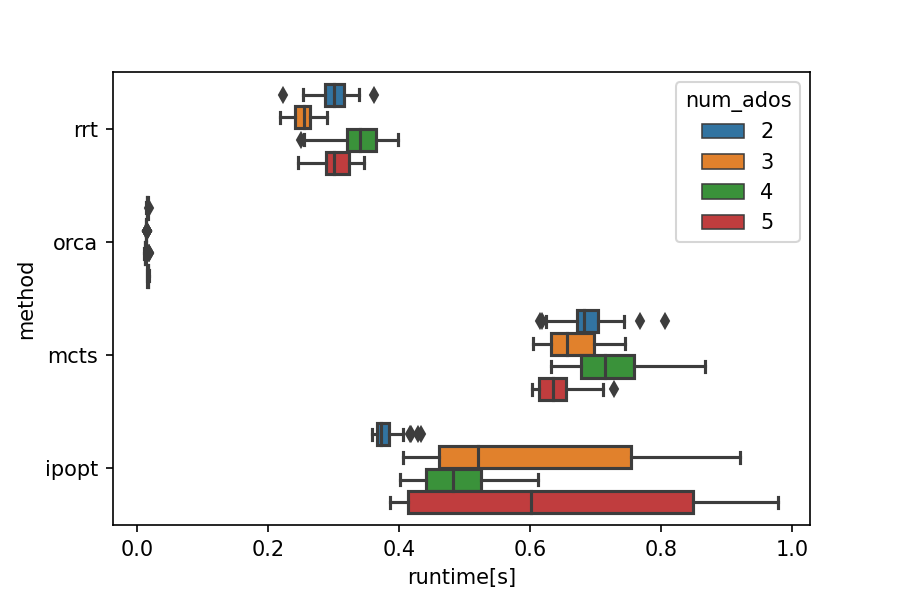
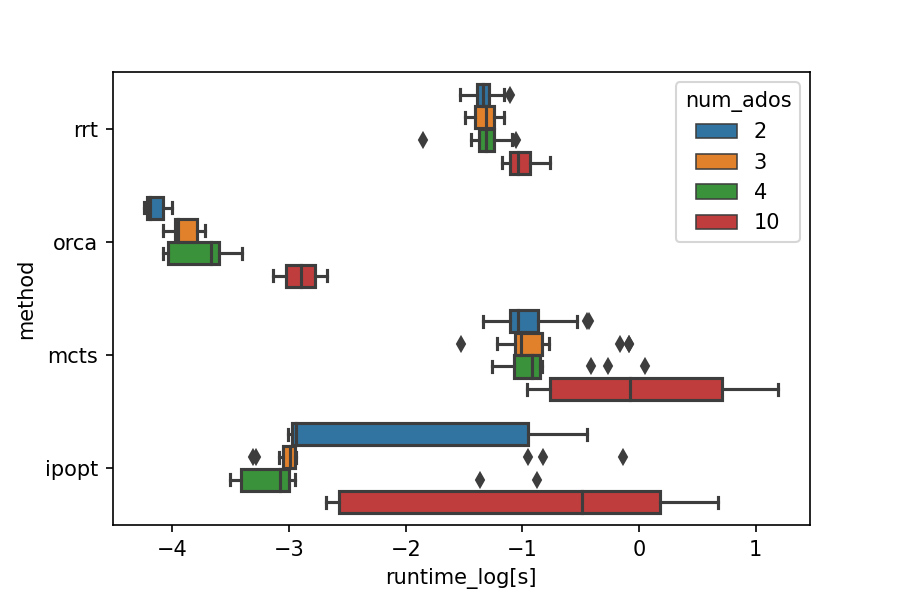
report update

diff --git a/report/exp_integration.tex b/report/exp_integration.tex
@@ -1,6 +1,6 @@
 \section{Integration Experiments}
 \label{text:experiments/integration}
-In the following, the performance of the overall approach is evaluated. For comparison, several baselines have been re-implemented, that are frequently used in the field of crowd navigation: \ac{ORCA} \cite{vandenBerg2011}, \ac{RRT}$\star$ \cite{Karaman2011} and \ac{MCTS}. These baselines have been chosen, as they cover a broad field of existing trajectory planning methodologies, such as sampling-based, optimization-based or tree-search-based methods. \footnote{Section \ref{text:related/crowd_navigation} The experiments have been conducted as described in Section \ref{text:experiments/setup}, using \ac{SGAN} \cite{Gupta2018} as an independent simulation environment and averaged several runs in a Monte-Carlo manner.
+In the following, the performance of the overall approach is evaluated. For comparison, several baselines have been re-implemented, that are frequently used in the field of crowd navigation: \ac{ORCA} \cite{vandenBerg2011}, \ac{RRT}$\star$ \cite{Karaman2011} and \ac{MCTS}. These baselines have been chosen, as they cover a broad field of existing trajectory planning methodologies, such as sampling-based, optimization-based or tree-search-based methods. \footnote{Section \ref{text:related/crowd_navigation} introduced the use of deep learning-based approaches in the field of crowd-navigation. Therefore, a state-of-the-art approach for socially-aware navigation using deep reinforcement learning, by Chen et alt. \cite{Chen2017}, should have been used as well. Unfortunately, it is neither open-source nor did the author reply to several of my requests.} The experiments have been conducted as described in Section \ref{text:experiments/setup}, using \ac{SGAN} \cite{Gupta2018} as an independent simulation environment and averaged several runs in a Monte-Carlo manner.
 
 \subsection{Effect of Interactive Objective}
 Figure \ref{img:show_case} illustrates the qualitative difference between the proposed approach and other planning approaches. Note that meanwhile, both algorithms can maintain some safety distance to the pedestrian. However, integrating the pedestrian prediction in the core of the optimization allows the solver to anticipate each pedestrian's future actions. While the path optimized by \ac{RRT}$\star$ (comp. Figure \ref{img:show_case}, right) cuts into the path of the green-colored pedestrian, the interactive-aware optimization chooses to stay behind the pedestrian, which is reasonable travel-time efficient but introduces a lot fewer disturbances on the surrounding pedestrians. 
@@ -10,23 +10,55 @@ Figure \ref{img:show_case} illustrates the qualitative difference between the pr
 \includegraphics[width=0.45\textwidth]{images/show_case_ipopt.png}
 \includegraphics[width=0.45\textwidth]{images/show_case_rrt.png}
 \end{center}
-\caption{Direct comparison of generated trajectories by our approach (left) and \ac{RRT}$\star$ \cite{Karaman2011} (right)}
+\caption{Exemplary comparison of generated trajectories by our approach (left) and \ac{RRT}$\star$ \cite{Karaman2011} (right)}
 \label{img:show_case}
 \end{figure}
 
 \subsection{Baseline Performance}
-The previously described qualitative benefits of the proposed approach can be underlined by quantitative results. The following experiments compare the quantitative results of the several planning algorithms in the presence of 2 to 5 pedestrians in the scene and randomly created. 
+The previously described qualitative benefits of the proposed approach can be underlined by quantitative results. The following experiments compare the quantitative results of the several planning algorithms in the presence of 2 to 10 pedestrians in the scene and randomly created. 
+
+\begin{table}[!ht]
+\begin{center}
+\begin{tabular}{c|c|c|c|c|c|c|c}
+\bf Method & \bf MPE & \bf RTD & \bf RCE & \bf ETT & \bf TGD & \bf MSD & \bf Mean Runtime [s] \\
+\hline
+\ac{MCTS} & 7.03 & 0.77 & 0.76 & 0.69 & 0.511 & 4.64 & 0.67 \\
+\hline
+\ac{ORCA} & 6.86 & 0.70 & 0.97 & 0.0 & 0.35 & 3.68 & 0.028 \\
+\hline
+\ac{RRT}$\star$ & 7.13 & 0.53 & 1.18 & 0.0 & 0.68 & 3.38 & 0.29 \\
+\hline
+\rowcolor{our_color}
+\project & 6.78 & 0.93 & 0.61 & 0.38 & 0.30 & 4.51 & 0.28
+\end{tabular}
+\end{center}
+\caption{Quantitative comparison of approach to several baseline methods.}
+\label{table:baselines}
+\end{table}
+
+As shown in Table \ref{table:baselines}, the proposed algorithm outperforms the baseline methods in nearly all metrics. Although \ac{ORCA} performs surprisingly well, causing the second lowest mean pedestrian effort \ac{MPE}, behind \project, it fails keep the same safety distance as the solution trajectories derived using the proposed formulation. In fact, \project manages to find a solution that trade-offs efficiency with safety and intervention regarding the pedestrians better than all of the other approaches.  
 
 \subsection{Effect of number of Pedestrians}
-Figure \ref{img:runtime_num_pedestrian} illustrates the average algorithm's runtime for one trajectory optimization, depending on the number of pedestrians. While the proposed approach ("ipopt") runs with about 2 Hz, the runtime is notably dependent only marginally on the number of pedestrians in the scene. This can be explained by the widespread usage of batching within the algorithm, including the prediction model, and the use of attention filters, which keep the number of considered pedestrians during optimization approximately constant.
+Figure \ref{img:runtime_num_pedestrian} illustrates the average algorithm's runtime for one trajectory optimization, depending on the number of pedestrians. While the proposed approach ("ipopt") runs with about 2-3 Hz in case of many pedestrians, the runtime is notably sub-linearly depends on the number of pedestrians in the scene. This can be explained by the widespread usage of batching within the algorithm, including the prediction model, and the use of attention filters, which keep the number of considered pedestrians during optimization approximately constant.
 
 \begin{figure}[!ht]
 \begin{center}
 \includegraphics[width=\imgwidth]{images/runtime_peds.png}
 \end{center}
-\caption{Impact of number of pedestrians (ados) on algorithm runtime [s].}
+\caption{Impact of number of pedestrians (ados) on algorithm runtime [s] (in logarithmic scale).}
 \label{img:runtime_num_pedestrian}
 \end{figure}
 
 \subsection{Effect of Prediction Model}
+The internal structure of the prediction model largely impacts, how a certain robot action is evaluated in terms of its interactive cost. Consequently, the optimized trajectories differ. However, it turns out that the qualitative properties of the solution trajectory are widely independent from the choice of prediction model, at least when the same simulation environment is being used. Figure \ref{img:effect_pred} illustrates this qualitative invariance, by comparing the solution trajectories of an optimization based on the Trajectron \cite{Ivanovic2018} (left) and the Potential Field model (right). As so, solution trajectory being derived using the latter environment tend to be single-agent focused. As described in Section \ref{text:exp_particles}, the Potential Field model neglects inter-pedestrian interactions and the robot does not impact a pedestrian's movement, if it is not in its field of view. Consequently, trajectories that are derived based on this environment, usually choose to follow behind the closest pedestrian. In contrast, the Trajectron models the effect each pedestrian has on all other agents in the scene. Thus, the robot chooses to stay behind the closest pedestrian, but in maximal distance to all other pedestrian. This has to pre-dominant reasons: Firstly, the pedestrians behavior is impacted by the robot, just due to its presence, and not limited by the pedestrian's field of view. And more importantly, secondly, intermediate effects are taken into account. Thus, when the robot has an impact on one pedestrian $k$, it might effect the others as well, since they might be effected implicitly by the change of action of $k$. 
+\newline
+However, although both solution trajectories in Figure \ref{img:effect_pred} differ in shape, they are qualitatively equal. Both robots choose to follow behind the closest pedestrian. This behavior can be observed over a wide range of different scenarios.
 
+\begin{figure}[!ht]
+\begin{center}
+\includegraphics[width=0.45\textwidth]{images/show_case_ipopt.png}
+\includegraphics[width=0.45\textwidth]{images/impact_env_trajectron.png}
+\end{center}
+\caption{Exemplary comparison of generated trajectories by based on Potential Field model (left) and Trajectron \cite{Ivanovic2018} (right)}
+\label{img:effect_pred}
+\end{figure}

diff --git a/report/exp_unit.tex b/report/exp_unit.tex
@@ -53,7 +53,7 @@ diff\_acc & 0.21 & 0.98 & 0.55 & 0.0 & 0.27 & 1.24 \\
 without & 0.31 & 1.0 & 0.27 & 0.0 & 0.23 & 1.08 \\ 
 \hline
 \rowcolor{our_color}
-projection & 0.01 & 0.92 & 0.79 & 0.8 & 0.39 & 1.44 
+projection & 0.18 & 0.92 & 0.79 & 0.8 & 0.39 & 1.44 
 \end{tabular}
 \end{center}
 \label{table:interactive_objective}
@@ -95,8 +95,8 @@ Figure \ref{img:hj_approx_bar} shows the logarithmic approximation error for sev
 The warm-starting method used in the underlying work simplifies the full trajectory optimization problem to a convex and efficiently computable sub-problem. This process has been described in Section \ref{text:approach/runtime/warm_starting}. This simplified formulation merely takes into account the goal objective as well as a physical constraint imposed by the robot, while neglecting any interaction between robot and pedestrian in the scene. It this way, not only pedestrian-target objectives are ignored, but also constraints enforcing a safe interaction. Despite being efficient to solve, it might return a solution estimate far from the real solution. For example, in the case of a densely crowded area, it might return a solution trajectory, passing very close to other pedestrians, which surely violates the safety constraints of the full formulation. Consequently, the runtime would not be reduced much, if at all. 
 \newline
 As previously pointed out, there is no simple way of warm-starting interior-point-based methods using preceding solutions. This difficulty motivates finding other warm-starting approaches designed explicitly for crowd-navigation. In the following several other concepts for warm-starting, the underlying optimization problem is introduced and baselined against the used method. The used method, which is solving a simplified, robot-focussed optimization problem, is thereby referred to as \ac{GFW}.
-\paragraph{
-\ac{SCW}} 
+
+\paragraph{\ac{SCW}} 
 SCW follows a similar idea as \ac{GFW}, which is using a simplified formulation of the full optimization problem (Problem \ref{problem:general}) as a wart-start. \ac{GFW}s formulation is thereby extended by the safety constraint $g_{HJR}(\cdot)$ to guarantee that the warm-starting solution is feasible with respect to the system's safety constraint. $g_{HJR}(\cdot)$ is by design independent from pedestrian predictions as well as, for the assumed agent dynamics, widely linear. As a result, \ac{SCW} not only accounts for interactions and feasibility of the warm-started solution trajectory in the full problem but also is comparably efficient to solve.
 
 \paragraph{\ac{PCBW}}
@@ -147,26 +147,7 @@ It is straightforward to see that the computational complexity of evaluating the
 Thus, as an example, it is effortful to compute the gradient of the interactive objective with respect to the robot's trajectory for Trajectron \cite{Ivanovic2018}, but computationally light-weight to do so for the Social Forces environment \cite{Helbing1995}. Following this idea, the \ac{SPMW} method warm-starts the optimization by solving the same (full) optimization problem and using a less complicated environment. The Potential Field prediction model, as described in Section \ref{text:exp_particles}, has been developed for warm-starting. It is worth noting that \ac{SPMW} enables us to improve the efficiency of the optimization and take advantage of prior knowledge. Therefore, the Potential Field model has been designed so that the pedestrian is only affected by the robot when it is close to the pedestrian and in front of it. Consequently, the optimization is driven to a solution in which the robot moves behind or in the distance of each pedestrian.
 
 \paragraph{Evaluation}
-Table \ref{table:warm_start} quantitatively compares the exhibited warm-starting methods. 
-
-\begin{table}[!ht]
-\begin{center}
-\begin{tabular}{c|c|c|c|c|c|c}
-\bf Warm-Starting Method & \bf MPE & \bf RTD & \bf RCE & \bf ETT & \bf TGD & \bf MSD \\
-\hline
-SCW & 0.33 & 0.99 & 0.32 & 0.0 & 0.24 & 0.94 \\
-\hline
-PCBW & 0.29 & 0.98 & 0.51 & 0.0 & 0.26 & 1.16 \\
-\hline
-SMW & 0.21 & 0.98 & 0.55 & 0.0 & 0.27 & 1.24 \\ 
-\hline
-\rowcolor{our_color}
-GFW & 0.01 & 0.92 & 0.79 & 0.8 & 0.39 & 1.44 
-\end{tabular}
-\end{center}
-\caption{Quantitative comparison of several warm-starting methods by evaluating the performance of the underlying trajectory optimization.}
-\label{table:warm_start}
-\end{table}
+Evaluating the performance of the exhibited warm-starting methodologies generally is hard, as for each warm-starting method a set of scenarios can be constructed, in which the resulting warm-started trajectory is very close to the optimal trajectory. As an example \ac{GFW} works well for sparse scenarios, with few pedestrians, while \ac{SCW} performs well, when the robot starts close to a pedestrian. However, in most cases the warm-starting methods decrease the average optimization runtime by $5-10 \%$, while not qualitatively affecting the shape of the solution trajectory. Empirically, \ac{SCW} seems to perform best. Automatically deciding the optimal warm-starting method for a given scenario, as e.g., by leveraging learning-based methods as in \cite{Banerjee2020}, is left for future work.
 
 \subsection{Attention Methods}
 Section \ref{text:approach/runtime/filtering} has introduced the concept of attention for filtering the significant pedestrians for evaluating the interactive objective and cutting computational runtime. Next to the purposed euclidean-distance-based attention module, there are several other methodologies for this purpose, out of which two more sophisticated options will be presented in the following:

diff --git a/report/exp_environments.tex b/report/exp_environments.tex
@@ -41,4 +41,4 @@ A significant disadvantage of Algorithm \ref{alg:particle_simulation} is that on
  
 \paragraph{Social Forces Model.} The Social Forces model is an ontological approach for pedestrian prediction based on modeling human and interaction dynamics as first-order principles. Although Social Forces model the pedestrian with double integrator dynamics, as previously pointed out, this assumption can be easily relaxed due to the highly dynamic nature of the pedestrian with a much larger update rate than the robot's trajectory optimization algorithm.  While the design is originally not taking into account a robot with previously known trajectories, it can be easily integrated by introducing it as an agent with a known state that applies repulsive forces to each pedestrian, as described in Equation \ref{eq:social_forces}. While the original Social Forces characterize the impact of objects and pedestrian groups, these effects are ignored within this work for the sake of simplification and due to the specific problem formulation (e.g., free-plane environment). As the model was extensively described in Chapter \ref{text:related}, it is only mentioned here for completeness. 
 
-\paragraph{Potential Field Model.} The Potential Field model simplifies the Social Forces model developed within project \project, mainly due to its improved tractability. While the repulsive forces each pedestrian as well as the robot exerts on a pedestrian depends on the relative state informed gradient of a potential field, which might be hard to understand, the potential forces model uses a distance only approach, to evaluate the repulsive force between two agents. To avoid overly conservative or unrealistic trajectory predictions, the robot merely exerts a force on the pedestrian if it within a visible cone in front of the pedestrian. If no forces are applied on a pedestrian (or remain under defined threshold), constant, un-accelerated motion is assumed.
+\paragraph{Potential Field Model.} The Potential Field model simplifies the Social Forces model developed within project \project, mainly due to its improved tractability. While the repulsive forces each pedestrian as well as the robot exerts on a pedestrian depends on the relative state informed gradient of a potential field, which might be hard to understand, the potential forces model uses a distance only approach, to evaluate the repulsive force between two agents. To avoid overly conservative or unrealistic trajectory predictions, the robot merely exerts a force on the pedestrian if it within a visible cone in front of the pedestrian (field-of-view). If no forces are applied on a pedestrian (or remain under defined threshold), constant, un-accelerated motion is assumed.

diff --git a/report/exp_metrics.tex b/report/exp_metrics.tex
@@ -73,7 +73,7 @@ ETT = (\stepssolution - \stepssolution_{direct})\dt
 While most above metrics are explicitly related to the demands the derived solution trajectory poses on the robot, the underlying formulation's primary goal is to reduce the impact the robot's movement has on the "walking comfort" of the surrounding pedestrians. As reasoned in Section \ref{text:approach/objective/interactive}, comfort can be regarded as a function of their accelerational changes, which might occur due to the presence of the robot. The MPE takes account for this "comfort" by comparing the mean acceleration conditioned on the solution trajectory with the mean acceleration without the presence of the robot at all, averaged over the length of the solution trajectory $\stepssolution$ and the number of pedestrians in the scene:
 
 \begin{equation}
-MPE = \frac{1}{\stepssolution} \frac{1}{K} \sum_{i=0}^{\stepssolution} \sum_{k=0}^K ||\ddxped[k]_i - \ddxpedwo[k]_i||_2
+MPE = \frac{1}{\stepssolution} \frac{1}{K} \sum_{i=0}^{\stepssolution} \sum_{k=0}^K \frac{||\ddxped[k]_i - \ddxpedwo[k]_i||_2}{||\ddxpedwo[k]_i||_2}
 \end{equation}
 
 \paragraph{\ac{TGD}}
